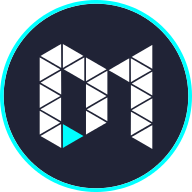
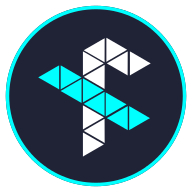
Updated cookie state handling

diff --git a/src/components/Dashboard/Dashboard.js b/src/components/Dashboard/Dashboard.js
@@ -11,7 +11,7 @@ import IconButton from '@material-ui/core/IconButton';
 import MenuIcon from '@material-ui/icons/Menu';
 import Container from "@material-ui/core/Container";
 import NightsStayIcon from '@material-ui/icons/NightsStay';
-import DamLogo from './../resources/damLogo.svg';
+import FluxLogo from './../resources/fluxLogo.svg';
 import Cookies from 'universal-cookie';
 
 
@@ -87,7 +87,7 @@ export default function Dashboard() {
 
   const handleThemeChange = () => {
     //Update cookie
-    cookies.set('themeState', (!darkState).toString(), { path: '/' });
+    cookies.set('themeState', (!darkState).toString(), { path: '/', expires: new Date(Date.now()+2592000)})
     setDarkState(!darkState);
   }
 
@@ -105,7 +105,7 @@ export default function Dashboard() {
                   <MenuIcon />
                 </IconButton>
                 <Box mx="auto" alignItems="center" display="flex" flexDirection="row">
-                <img src={DamLogo} alt="React Logo" width="30"/>
+                <img src={FluxLogo} alt="React Logo" width="30"/>
                   <Typography variant="h5" className={classes.title}>
                      Calculator
                   </Typography>

diff --git a/src/components/CalculatorForm/CalculatorForm.js b/src/components/CalculatorForm/CalculatorForm.js
@@ -148,7 +148,7 @@ function CalculatorForm(props) {
 
       <Box flexDirection="column" display="flex" alignItems="center">
           <Typography id="decayPerDayLabel" variant="caption" gutterBottom color="primary" >
-            Bonus Decay Per Day
+            Bonus Decay Per Day: {props.data.decayPerDay}
           </Typography>
           <Slider className={classes.root}
             id="decayPerDay"
@@ -173,7 +173,7 @@ function CalculatorForm(props) {
             calculateNewMultiplier(props.data);
               //Store cookies
               var toStore = JSON.stringify(props.data);
-              cookies.set('formState', toStore, { path: '/' });
+              cookies.set('formState', toStore, { path: '/', expires: new Date(Date.now()+2592000)})
           }}>
           Calculate
       </Button>

diff --git a/src/components/CoinDataFetcher/CoinDataFetcher.js b/src/components/CoinDataFetcher/CoinDataFetcher.js
@@ -20,6 +20,10 @@ const styles = theme => ({
   }
 });
 
+function numberWithCommas(x) {
+  return x.toString().replace(/\B(?=(\d{3})+(?!\d))/g, ",");
+}
+
 class CoinDataFetcher extends Component {
 
   constructor(props) {
@@ -112,7 +116,7 @@ class CoinDataFetcher extends Component {
                   <TableCell align="left">{row.currentPrice}</TableCell>
                   <TableCell align="left">{row.allTimeHigh}</TableCell>
                   <TableCell align="left">{row.allTimeLow}</TableCell>
-                  <TableCell align="left">{row.marketCap}</TableCell>
+                  <TableCell align="left">{numberWithCommas(row.marketCap)}</TableCell>
                 </TableRow>
               ))}
             </TableBody>

diff --git a/src/components/UI/CalculatorGrid/CalculatorGrid.js b/src/components/UI/CalculatorGrid/CalculatorGrid.js
@@ -67,8 +67,8 @@ function CalculatorGrid(props) {
 
     //If a cookie exists, overwrite with params. TODO: prevent form on-change trigger?!
     const cookies = new Cookies();
-    if (cookies.get('formState') !== null) {
-        var storedForm = cookies.get('formState');
+    var storedForm = cookies.get('formState');
+    if (typeof storedForm !== 'undefined') {
         //Map form data points (TODO: Refactor / map, but not coinData!):
         state.myFluxToBurn = storedForm.myFluxToBurn;
         state.myFluxBurned = storedForm.myFluxBurned;

diff --git a/src/components/DecayChart/DecayChart.js b/src/components/DecayChart/DecayChart.js
@@ -78,7 +78,7 @@ import { Line } from 'react-chartjs-2';
             data: [...calculateRewards(50, 0, props.data.blocksPerDay, props.data.damLockedIn, props.data.decayPerDay, props.data.lockInMultiplier, props.data.newMultiplier, "daily")]
           },
           {
-            label: 'Cummulative Flux Reward',
+            label: 'Cumulative Flux Reward',
             fill: false,
             lineTension: 0.1,
             backgroundColor: 'rgb(115, 135, 245)',
